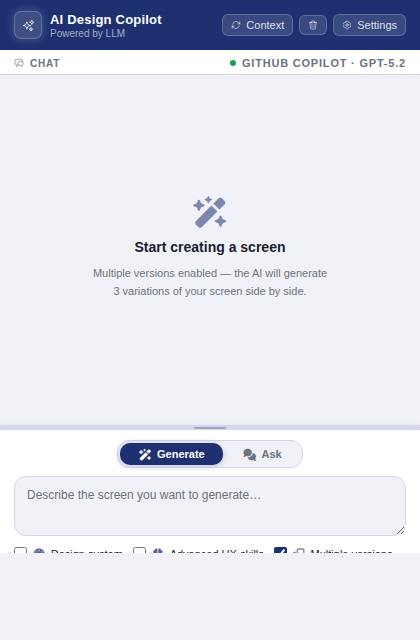
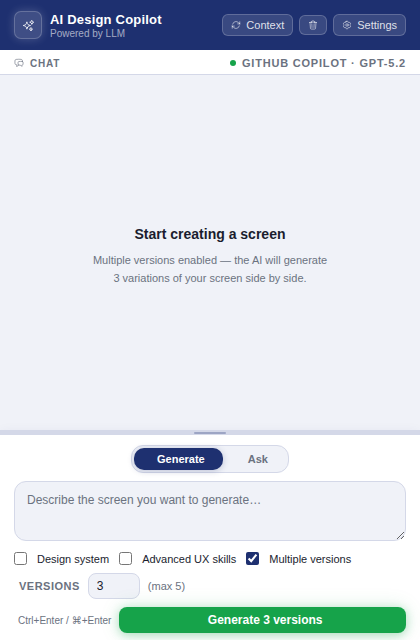
fix: mode toggle to primary blue + fix screenshots to 420×640

diff --git a/scripts/gen-screenshots.py b/scripts/gen-screenshots.py
@@ -30,7 +30,7 @@ svg_match = re.search(
 SVG_DEFS = svg_match.group(1)
 FA_LINK = f'<link rel="stylesheet" href="file://{FA_CSS}">'
 
-RENDER_H = 640  # body is fixed to H px; no crop needed for most screenshots
+RENDER_H = 900  # render taller than H so nothing gets clipped by viewport
 
 # Target dimensions matching figma.showUI({ width: 420, height: 640 })
 W = 420
@@ -47,11 +47,12 @@ def make_html(body_html: str, extra_css: str = "") -> str:
   <style>
     {UI_CSS}
     /* ── Screenshot overrides ── */
-    html {{ width: {W}px; height: {H}px; }}
+    html {{ width: {W}px; }}
     body {{
       width: {W}px;
-      height: {H}px !important;
-      overflow: hidden !important;
+      height: auto !important;
+      min-height: {RENDER_H}px;
+      overflow: visible !important;
     }}
     {extra_css}
   </style>
@@ -77,16 +78,15 @@ def screenshot(html: str, out_path: str, crop_h: int = H):
             "--disable-gpu",
             "--disable-dev-shm-usage",
             "--run-all-compositor-stages-before-draw",
-            f"--window-size={W},{H}",
+            f"--window-size={W},{RENDER_H}",
             f"--screenshot={tmp_png}",
             f"file://{tmp_html}",
         ], capture_output=True, text=True, timeout=30)
 
-        # Crop to target height if needed (e.g. for scrollable pages)
+        # Crop to target height
         img = Image.open(tmp_png)
-        if img.size[1] > crop_h:
-            img = img.crop((0, 0, W, crop_h))
-        img.save(out_path)
+        cropped = img.crop((0, 0, W, crop_h))
+        cropped.save(out_path)
     finally:
         for p in [tmp_html, tmp_png]:
             try: os.unlink(p)
@@ -121,11 +121,14 @@ MAIN_HEADER = """
   </div>
 </header>"""
 
-# The original .input-section has overflow:hidden, which makes its flex automatic
-# minimum size 0 — causing the flex layout to collapse it. We fix this by setting
-# an explicit min-height so the section gets its proper space.
+# For main-view pages: pin the chat-section to a fixed height so the input-section
+# below it gets its natural height (~200 px) and both fit within the 640 px crop.
+# Header ~50px + chat 380px + resize 5px + input ~205px = ~640px total.
 MAIN_LAYOUT_CSS = """
-.input-section { min-height: 190px !important; flex-shrink: 0 !important; }
+body { display: flex; flex-direction: column; }
+.chat-section { flex: 0 0 380px !important; height: 380px !important; overflow: hidden; }
+.resize-handle { height: 5px; flex-shrink: 0; }
+.input-section { flex-shrink: 0; overflow: hidden; }
 """
 
 # ══════════════════════════════════════════════════════════════════════════════

diff --git a/.github/copilot-instructions.md b/.github/copilot-instructions.md
@@ -81,7 +81,7 @@ npm test             # Run Jest unit tests
 
 ## Updating README Screenshots
 
-Screenshots live in `screenshots/` and are referenced by the README. They are **380 × 600 px PNG** files named after the step they represent:
+Screenshots live in `screenshots/` and are referenced by the README. They are **420 × 640 px PNG** files named after the step they represent:
 
 | File | Step |
 |------|------|
@@ -116,7 +116,7 @@ These two together enable pixel-perfect, Font-Awesome–aware screenshots.
    ```
 
 2. **Run `scripts/gen-screenshots.py`** — it renders each HTML snapshot
-   through Chromium headless (at 380 × 800) then crops to 380 × 600:
+   through Chromium headless (at 420 × 900) then crops to 420 × 640:
 
    ```bash
    python3 scripts/gen-screenshots.py
@@ -139,16 +139,16 @@ These two together enable pixel-perfect, Font-Awesome–aware screenshots.
 
 The script uses three ingredients:
 
-1. **Chromium headless** (`/usr/bin/chromium`) — renders HTML at 380 × 800 px  
+1. **Chromium headless** (`/usr/bin/chromium`) — renders HTML at 420 × 900 px  
 2. **Local Font Awesome** from `node_modules/@fortawesome/fontawesome-free/css/all.min.css`  
    loaded via `file://` URL so icon fonts work without internet  
-3. **Pillow** — crops the 380 × 800 render down to 380 × 600
+3. **Pillow** — crops the 420 × 900 render down to 420 × 640
 
 Each screenshot is built by:
 - Extracting the `<style>` block and `<svg>` symbol defs straight from `ui.html`
 - Wrapping a hand-crafted HTML body (replicating the desired UI state) in that CSS
-- Running `chromium --headless=new --screenshot --window-size=380,800 file://…`
-- Cropping to 380 × 600
+- Running `chromium --headless=new --screenshot --window-size=420,900 file://…`
+- Cropping to 420 × 640
 
 ### Adding or updating a screenshot
 
@@ -174,18 +174,18 @@ SVG_DEFS = re.search(
     src, re.DOTALL
 ).group(1)
 
-def render(body_html, out_path, crop_h=600):
+def render(body_html, out_path, crop_h=640):
     html = f\"\"\"<!DOCTYPE html><html><head>
       <link rel=\"stylesheet\" href=\"file://{os.path.abspath(FA_CSS)}\">
-      <style>{UI_CSS} html{{width:380px}} body{{width:380px;height:auto;min-height:800px;overflow:visible}}</style>
+      <style>{UI_CSS} html{{width:420px}} body{{width:420px;height:auto;min-height:900px;overflow:visible}}</style>
     </head><body>{SVG_DEFS}{body_html}</body></html>\"\"\"
     with tempfile.NamedTemporaryFile(suffix=".html", mode="w", delete=False) as f:
         f.write(html); tmp = f.name
     tmp_png = tmp.replace(".html", ".png")
     subprocess.run(["chromium", "--headless=new", "--no-sandbox",
-                    "--disable-gpu", "--window-size=380,800",
+                    "--disable-gpu", "--window-size=420,900",
                     f"--screenshot={tmp_png}", f"file://{tmp}"], check=True)
-    Image.open(tmp_png).crop((0, 0, 380, crop_h)).save(out_path)
+    Image.open(tmp_png).crop((0, 0, 420, crop_h)).save(out_path)
     for p in [tmp, tmp_png]: os.unlink(p)
 
 # Usage — write HTML using exact ui.html class names so CSS applies unchanged:
